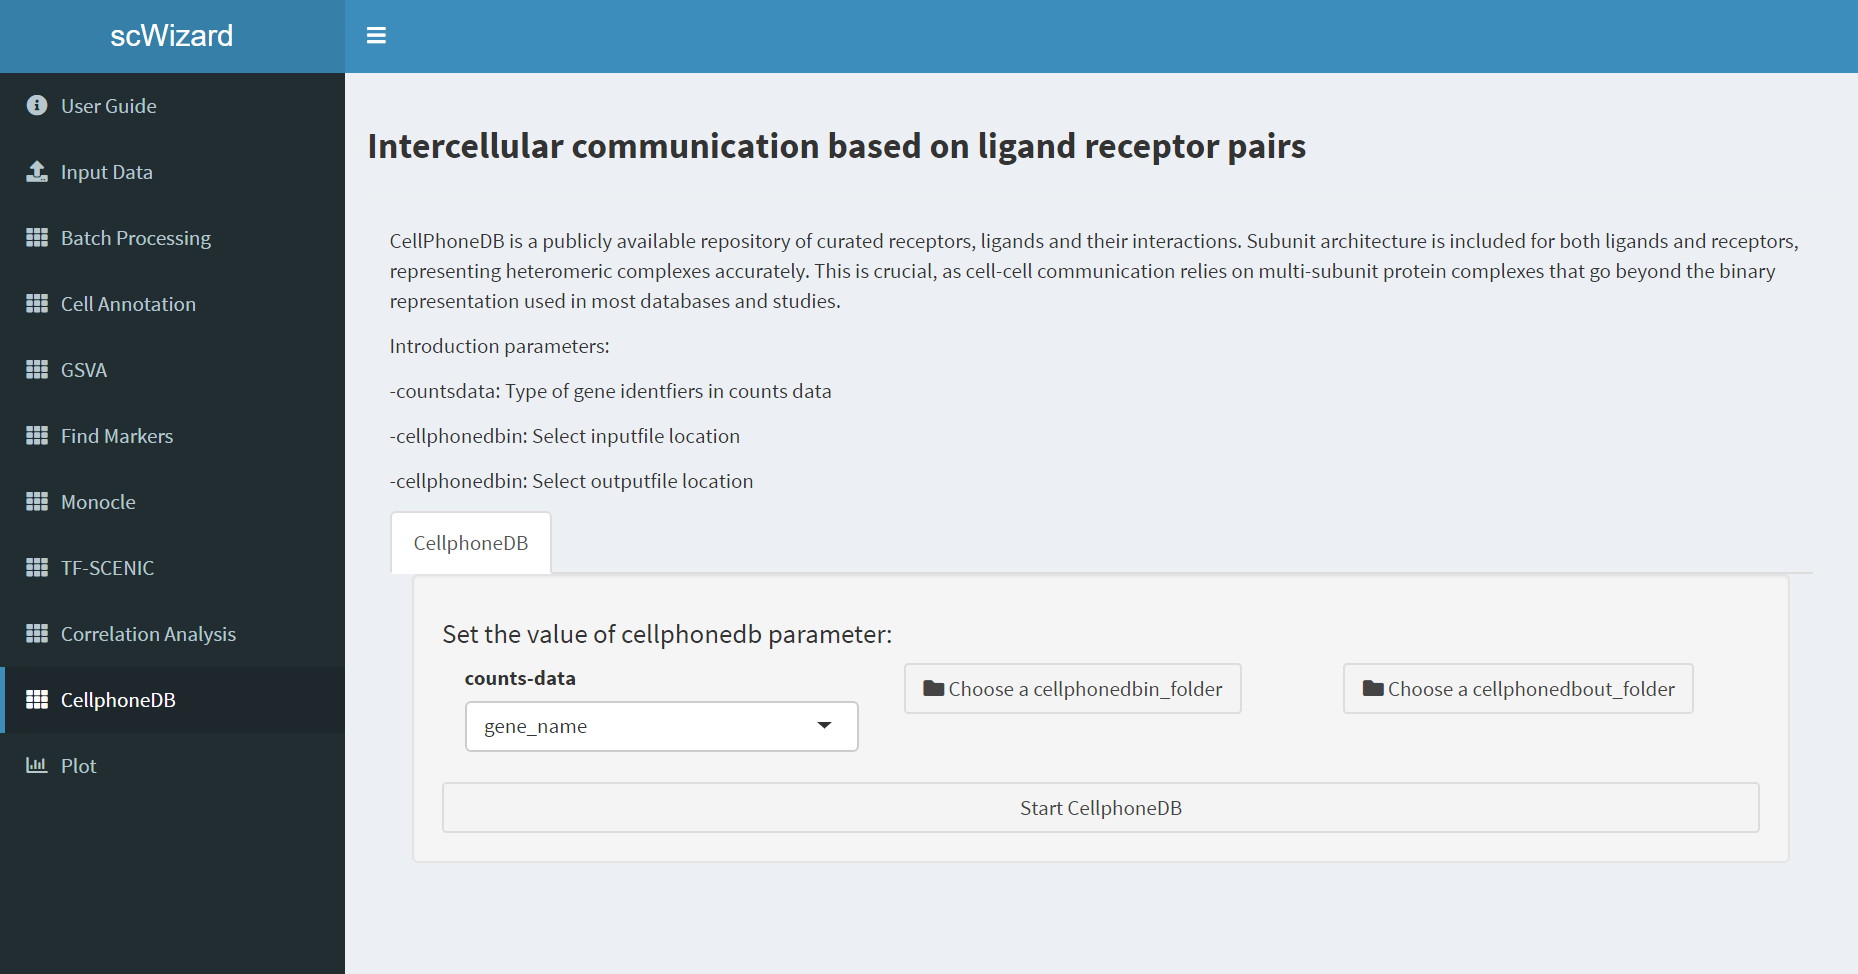
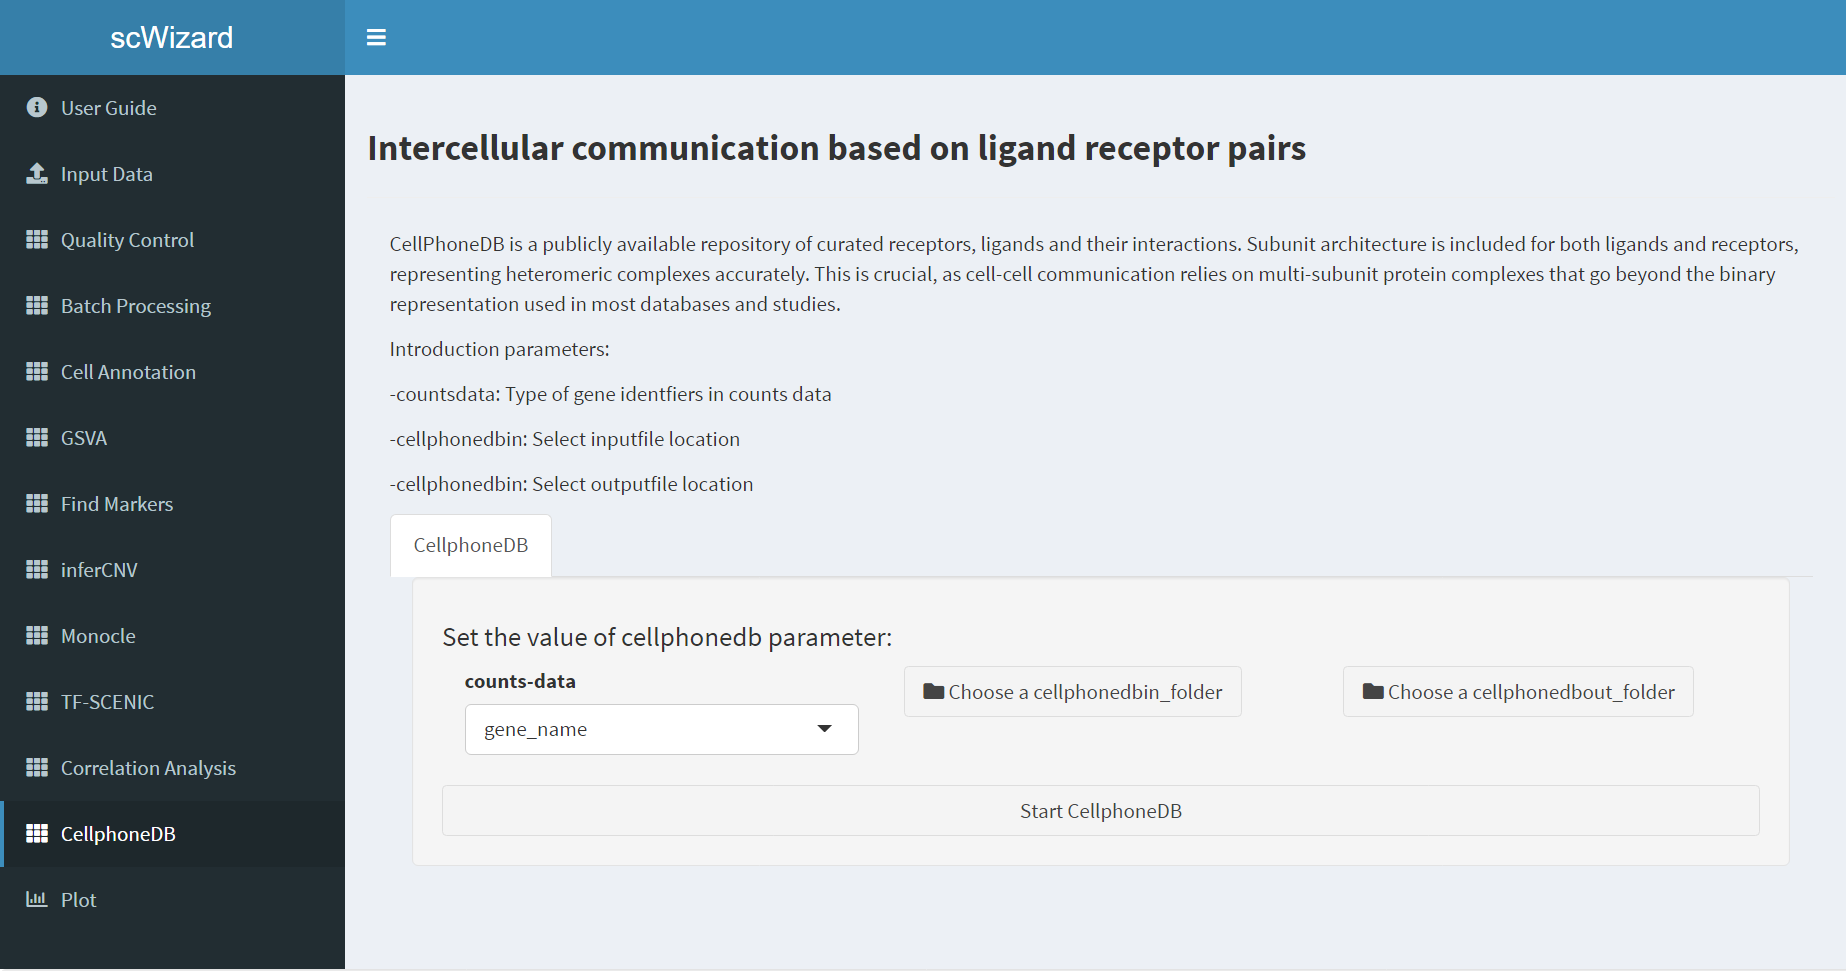
fix

diff --git a/README.md b/README.md
@@ -11,40 +11,59 @@ To start using scWizard, you can install a R package, it can provides a interact
 ### Installing scWizard
 NOTE: Works with R v4.0.2 or greater.<br>
 To install this package from Github, please use the code below.
+Windows:
+First install jags. Download address: https://nchc.dl.sourceforge.net/project/mcmc-jags/JAGS/4.x/Source/JAGS-4.3.0.tar.gz. And then run the following code in R
+Linux:
+First run conda install -c conda-forge jags. And then run the following code in R
 ```R
 if (!requireNamespace("devtools", quietly = TRUE))
     install.packages("devtools")
 devtools::install_github("Dulab2020/scWizard")
 ```
 ### Running scWizard
+Windows:
 The following commands are used to start the graphical user interface (GUI).
 ```R
 scWizard::run_app()
 ```
+Linux:
+The following commands are used to start the graphical user interface (GUI).
+```R
+options(shiny.host='0.0.0.0')
+options(shiny.launch.browser=F)
+scWizard::run_app()
+```
+Then enter the “server IP address: port number” in the browser.
 
 1.The single cell data should be saved in Seurat object and input in RDS file format. “Input Data” function provides a default sample dataset including 300 cells and users can upload local dataset. The counts matrix for the default dataset is in right column.<br>
 ![Fig1](https://github.com/Dulab2020/scWizard/blob/master/inst/app/www/pageimage/inputdata.png)
 
-2.“Batch processing” function provides two ways to remove batch effects, enabling uses to select batch information from the metadata, and providing the necessary parameters for each method. At the same time, ScWizard displays the graphical result before and after the batch effect, which can be saved by users.<br>
+2.“Quality Control” function provides necessary parameters for users to choose. When using, users can click the "view quality" button to view the original data quality; Then select parameters for quality control according to the situation.  he results are automatically saved to the folder where the data is entered.<br>
+![Fig2](https://github.com/Dulab2020/scWizard/blob/master/inst/app/www/pageimage/qc.png)
+
+3.“Batch processing” function provides two ways to remove batch effects, enabling uses to select batch information from the metadata, and providing the necessary parameters for each method. At the same time, ScWizard displays the graphical result before and after the batch effect, which can be saved by users.<br>
 ![Fig2](https://github.com/Dulab2020/scWizard/blob/master/inst/app/www/pageimage/batch_processing.png)
 
-3.“Cell annotation” function includes three modules: cell annotation is for major cell annotation, cell classification is for subcluster for cell subtypes, cell subcluster annotation is for cell subtypes annotation. The parameter including number of network nodes could be adjusted. ScWizard provides training data for major cell types and subtypes for four cell types, users can also use their own training data for cell annotation.Note：If you are using it for the first time, please click ‘Install Python’ first.<br>
+4.“Cell annotation” function includes three modules: cell annotation is for major cell annotation, cell classification is for subcluster for cell subtypes, cell subcluster annotation is for cell subtypes annotation. The parameter including number of network nodes could be adjusted. ScWizard provides training data for major cell types and subtypes for four cell types, users can also use their own training data for cell annotation. In addition, before using the annotation function, users need to click the "install Python" button to install the python environment; At the same time, you need to download the trainset and copy it to the "app/www/python" folder under the scwizard installation directory.<br>
 ![Fig3](https://github.com/Dulab2020/scWizard/blob/master/inst/app/www/pageimage/cell_anno.png)
 
-4.“GSVA” function is for calculating GSVA score for specific gene sets or signaling pathways. GMT file could be uploaded by users and parameter can be adjusted. The results is displayed by below, and users can save the results.<br>
+5.“GSVA” function is for calculating GSVA score for specific gene sets or signaling pathways. GMT file could be uploaded by users and parameter can be adjusted. The results is displayed by below, and users can save the results.<br>
 ![Fig4](https://github.com/Dulab2020/scWizard/blob/master/inst/app/www/pageimage/GSVA.png)
 
-5.“TF-SCENIC” function is for screening out transcription factors with significant regulatory roles. The parameter can be adjusted and the results are presented in the form of heat map, which is saved in the int and output folders under the current path.<br>
+6.“inferCNV” function is for analyzing large-scale chromosome copy number alterations (CNA). Users can upload the prepared gene location file for copy number variation analysis. See this page for details of parameters. The results are saved in the "inforcnv_res" folder of the current working directory.<br>
+![Fig5](https://github.com/Dulab2020/scWizard/blob/master/inst/app/www/pageimage/inferCNV.png)
+
+7.“TF-SCENIC” function is for screening out transcription factors with significant regulatory roles. The parameter can be adjusted and the results are presented in the form of heat map, which is saved in the int and output folders under the current path. Before running, you need to download the reference data set from the following address and copy it to the 'cistarget' folder under the current working directory.<br>
 ![Fig5](https://github.com/Dulab2020/scWizard/blob/master/inst/app/www/pageimage/scenic.png)
 
-6.“CellphoneDB” function is for analyzing potential ligand receptor communication signals between cells and the parameter can be adjusted. The Seurat object is automatically processed as input data, and the results are saved in the cellphonedb_out folder under the current path.<br>
+8.“CellphoneDB” function is for analyzing potential ligand receptor communication signals between cells and the parameter can be adjusted. The Seurat object is automatically processed as input data, and the results are saved in the cellphonedb_out folder under the current path.<br>
 ![Fig6](https://github.com/Dulab2020/scWizard/blob/master/inst/app/www/pageimage/cellphonedb.png)
 
-7.“Correlation Analysis” function is for calculating correlation among two or more variables to measure the degree of correlation between them. Pearson and Spearman correlation method, the cell type as well as the gene could be chosen by users’ needs. The results are saved in the folder under the current path.<br>
+9.“Correlation Analysis” function is for calculating correlation among two or more variables to measure the degree of correlation between them. Pearson and Spearman correlation method, the cell type as well as the gene could be chosen by users’ needs. The results are saved in the folder under the current path.<br>
 ![Fig7](https://github.com/Dulab2020/scWizard/blob/master/inst/app/www/pageimage/cor.png)
 
-8.“Monocle” function is for constructing cell lineage development according to the changes of gene expression levels of different cell subpopulations. The parameter can be adjusted. The results are displayed in figure and are saved in the folder under the current path.<br>
+10.“Monocle” function is for constructing cell lineage development according to the changes of gene expression levels of different cell subpopulations. The parameter can be adjusted. The results are displayed in figure and are saved in the folder under the current path.<br>
 ![Fig8](https://github.com/Dulab2020/scWizard/blob/master/inst/app/www/pageimage/Monocle.png)
 
-9.“Plot” function displays the results of the above analysis modules and provides plotting function. The users can also upload their own data for plotting and all results can be downloaded by the users.<br>
+11.“Plot” function displays the results of the above analysis modules and provides plotting function. The users can also upload their own data for plotting and all results can be downloaded by the users.<br>
 ![Fig9](https://github.com/Dulab2020/scWizard/blob/master/inst/app/www/pageimage/plot.png)
